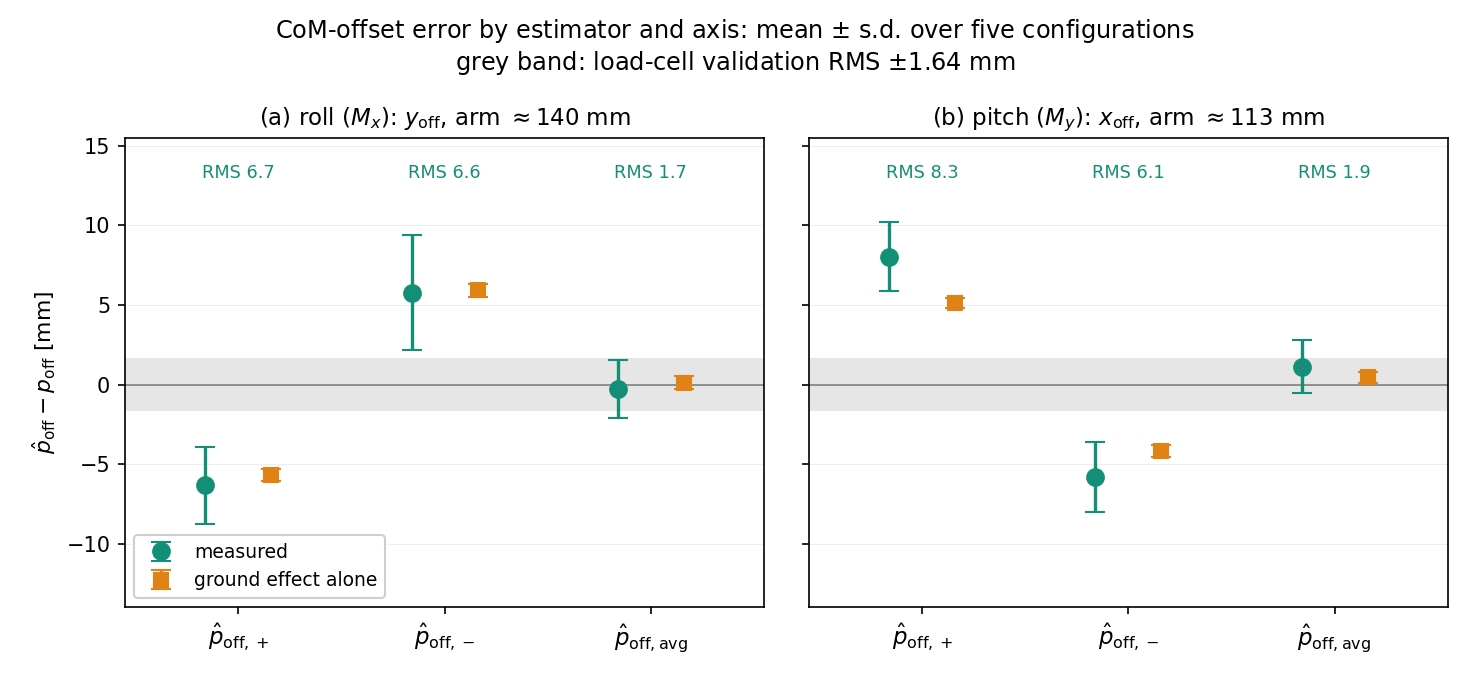
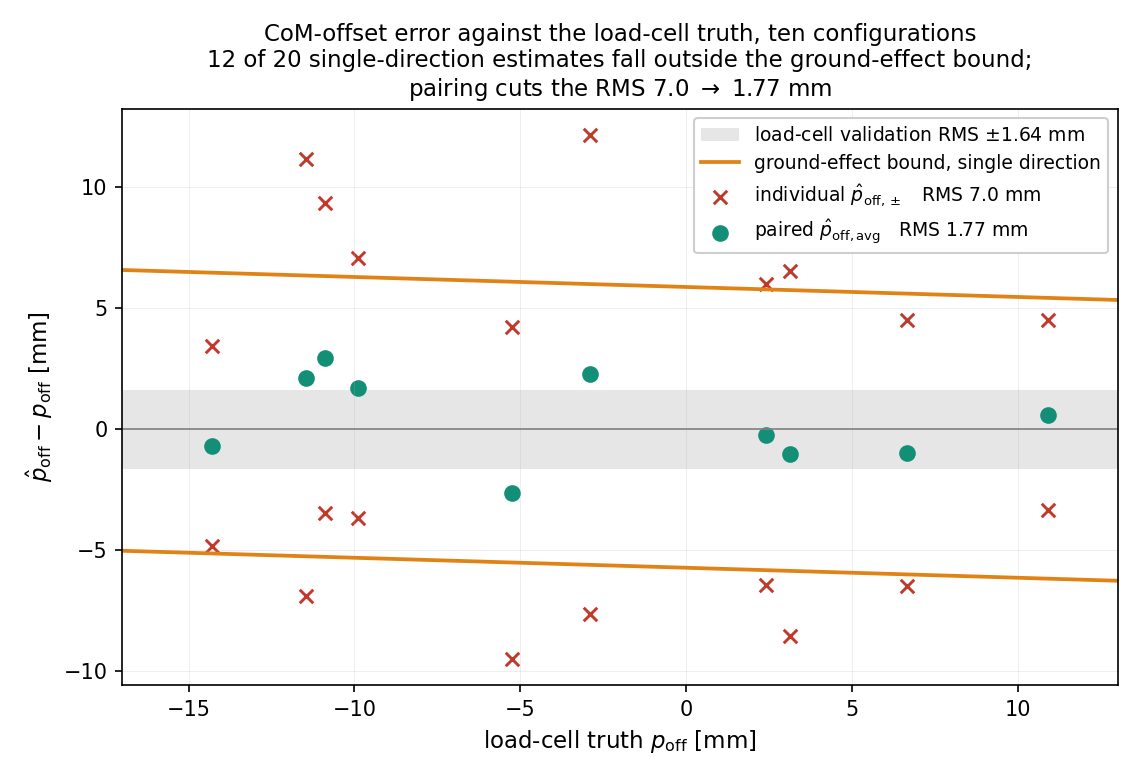
Pool the offset figure into one panel with the GE bound as lines
Single panel: load-cell truth on x, error on y, the twenty
single-direction estimates as crosses and the ten paired estimates as
circles, with the ground-effect prediction drawn as two straight
boundary lines -- the envelope over both axes and both directions,
which is linear in p_off (+6.7..+5.1 above, -4.9..-6.5 below).

The reading is now one glance: 12 of the 20 single-direction points
fall outside that bound, so ground effect alone does not account for
the per-direction error, while pairing cuts the RMS from 7.0 to
1.77 mm and brings every configuration well inside it.

Replaces the per-axis split, whose filled/open marker pairs and
per-case labels were hard to read.

Claude-Session: https://claude.ai/code/session_01BM6bcsm1ZtLtgegEeuFDVS

diff --git a/analysis/offset_experimental_split.py b/analysis/offset_experimental_split.py
@@ -87,46 +87,70 @@ def main():
         for k in 'tru ep en ea tp tn ta'.split():
             q[k] = np.array(q[k])
 
-    fig, axs = plt.subplots(1, 2, figsize=(9.8, 4.6), sharey=True)
-    fig.subplots_adjust(left=0.085, right=0.985, top=0.80, bottom=0.12,
-                        wspace=0.07)
+    # pooled arrays
+    TRU = np.concatenate([D[a]['tru'] for a in ('Mx', 'My')])
+    EP = np.concatenate([D[a]['ep'] for a in ('Mx', 'My')])
+    EN = np.concatenate([D[a]['en'] for a in ('Mx', 'My')])
+    EA = np.concatenate([D[a]['ea'] for a in ('Mx', 'My')])
+    IND = np.concatenate([EP, EN])
+    rms = lambda v: float(np.sqrt(np.mean(v ** 2)))
 
-    ttl = {'Mx': '(a) roll ($M_x$): $y_{\\rm off}$, arm $\\approx 140$ mm',
-           'My': '(b) pitch ($M_y$): $x_{\\rm off}$, arm $\\approx 113$ mm'}
-    grp = [('$\\hat{p}_{\\rm off,+}$', 'ep', 'tp'),
-           ('$\\hat{p}_{\\rm off,-}$', 'en', 'tn'),
-           ('$\\hat{p}_{\\rm off,avg}$', 'ea', 'ta')]
-    for ax, an in zip(axs, ('Mx', 'My')):
-        q = D[an]
-        ax.axhspan(-1.64, 1.64, color='0.90', lw=0, zorder=0)
-        ax.axhline(0, color='0.5', lw=0.8)
-        for i, (nm, mk, tk) in enumerate(grp):
-            mv, tv = q[mk], q[tk]
-            ax.errorbar(i - 0.16, mv.mean(), yerr=mv.std(ddof=1),
-                        fmt='o', ms=8, color=C['a'], capsize=5, lw=1.6,
-                        label='measured' if i == 0 else None)
-            ax.errorbar(i + 0.16, tv.mean(), yerr=tv.std(ddof=1),
-                        fmt='s', ms=7, color='#e08214', capsize=5,
-                        lw=1.6,
-                        label='ground effect alone' if i == 0 else None)
-            ax.text(i, 13.0, f'RMS {np.sqrt(np.mean(mv**2)):.1f}',
-                    ha='center', fontsize=8.5, color=C['a'])
-        ax.set_xticks(range(3))
-        ax.set_xticklabels([g[0] for g in grp], fontsize=11)
-        ax.set_xlim(-0.55, 2.55)
-        ax.set_ylim(-14, 15.5)
-        ax.set_title(ttl[an], fontsize=11)
-        ax.grid(alpha=0.25, lw=0.4, axis='y')
-        if an == 'Mx':
-            ax.legend(fontsize=9, loc='lower left', framealpha=0.95)
-    axs[0].set_ylabel('$\\hat{p}_{\\rm off} - p_{\\rm off}$ [mm]',
-                      fontsize=10.5)
+    # ground-effect envelope for a SINGLE direction, over both axes:
+    # the theory error is linear in p_off, so max/min across the four
+    # (axis, direction) combinations give two straight boundary lines
+    pg = np.linspace(-0.020, 0.020, 41)
+    lines = []
+    for an in ('Mx', 'My'):
+        gm = np.median(np.array(D[an]['geom']), axis=0)
+        Wm, sam, fp, lp_, fn, ln_ = gm
+        for sg, fq, lq in ((+1.0, fp, lp_), (-1.0, fn, ln_)):
+            m_ge = (sg * (Wm - fq) * lq + sam * Wm * pg
+                    - sg * ALPHA * fq * lq) / (1.0 + ALPHA)
+            lines.append(1e3 * (sam * (m_ge - sg * (Wm - fq) * lq) / Wm
+                                - pg))
+    L = np.array(lines)
+    up, dn = L.max(axis=0), L.min(axis=0)
 
-    fig.suptitle('CoM-offset error by estimator and axis: mean $\\pm$ '
-                 's.d. over five configurations\n'
-                 'grey band: load-cell validation RMS $\\pm 1.64$ mm',
-                 fontsize=11.5, y=0.975)
+    fig, ax = plt.subplots(figsize=(7.6, 5.2))
+    ax.axhspan(-1.64, 1.64, color='0.90', lw=0, zorder=0,
+               label='load-cell validation RMS $\\pm 1.64$ mm')
+    ax.axhline(0, color='0.5', lw=0.8)
+    ax.plot(1e3 * pg, up, '-', color='#e08214', lw=1.8,
+            label='ground-effect bound, single direction')
+    ax.plot(1e3 * pg, dn, '-', color='#e08214', lw=1.8)
+    ax.scatter(np.concatenate([TRU, TRU]), IND, s=42, c='#c0392b',
+               marker='x', lw=1.4,
+               label=f'individual $\\hat{{p}}_{{\\rm off,\\pm}}$'
+                     f'   RMS {rms(IND):.1f} mm')
+    ax.scatter(TRU, EA, s=64, c=C['a'], marker='o', lw=0,
+               label=f'paired $\\hat{{p}}_{{\\rm off,avg}}$'
+                     f'   RMS {rms(EA):.2f} mm')
+    ax.set_xlabel('load-cell truth $p_{\\rm off}$ [mm]', fontsize=11)
+    ax.set_ylabel('$\\hat{p}_{\\rm off} - p_{\\rm off}$ [mm]',
+                  fontsize=11)
+    n_out_t = int(np.sum((IND > np.interp(np.concatenate([TRU, TRU]),
+                                          1e3 * pg, up))
+                         | (IND < np.interp(np.concatenate([TRU, TRU]),
+                                            1e3 * pg, dn))))
+    ax.set_title('CoM-offset error against the load-cell truth, '
+                 'ten configurations\n'
+                 f'{n_out_t} of {len(IND)} single-direction estimates fall '
+                 'outside the ground-effect bound;\npairing cuts the RMS '
+                 f'{rms(IND):.1f} $\\rightarrow$ {rms(EA):.2f} mm',
+                 fontsize=11)
+    ax.legend(fontsize=9, loc='upper right', framealpha=0.95)
+    ax.grid(alpha=0.25, lw=0.4)
+    ax.set_xlim(-17, 13)
+    fig.tight_layout()
     fig.savefig(out, dpi=150)
+
+    n_out = int(np.sum((IND > np.interp(np.concatenate([TRU, TRU]),
+                                        1e3 * pg, up))
+                       | (IND < np.interp(np.concatenate([TRU, TRU]),
+                                          1e3 * pg, dn))))
+    print(f"  individual points outside the GE bound: {n_out}/{len(IND)}")
+    print(f"  paired points inside +-1.64 mm: "
+          f"{int(np.sum(np.abs(EA) <= 1.64))}/{len(EA)}")
 
     for an in ('Mx', 'My'):
         q = D[an]
